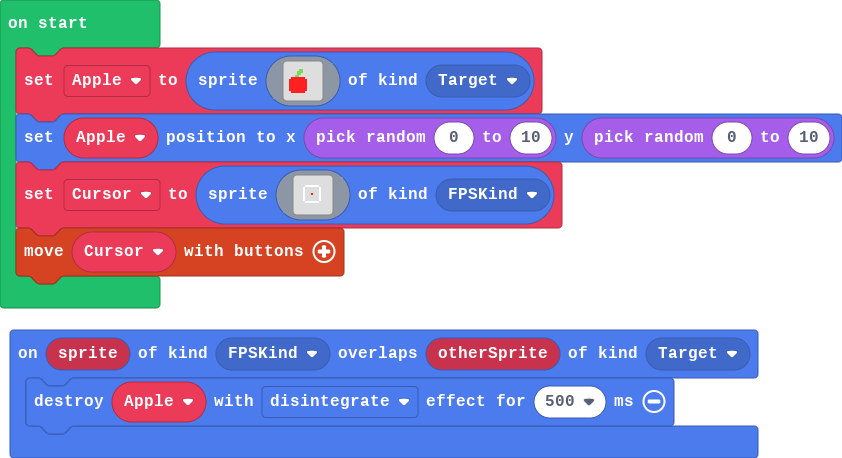
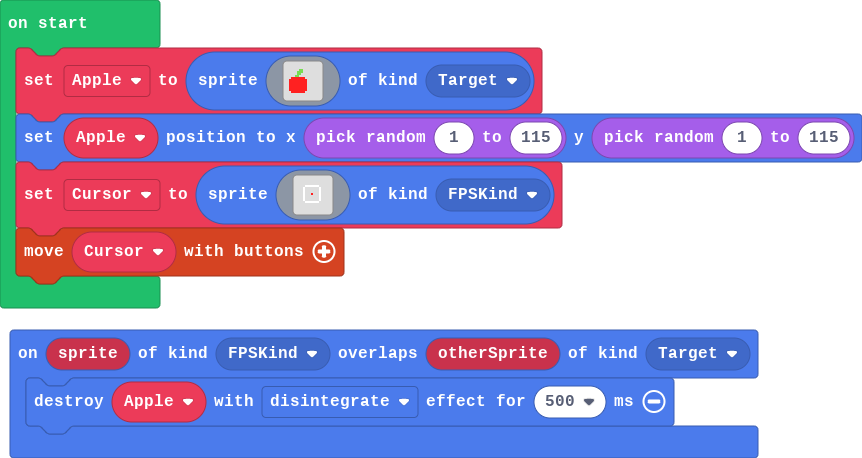
Update main.blocks, main.ts

diff --git a/main.ts b/main.ts
@@ -24,7 +24,7 @@ Apple = sprites.create(img`
     . . . . . . . . . . . . . . . . 
     . . . . . . . . . . . . . . . . 
     `, SpriteKind.Target)
-Apple.setPosition(randint(0, 10), randint(0, 10))
+Apple.setPosition(randint(1, 115), randint(1, 115))
 let Cursor = sprites.create(img`
     . . . . . . . . . . . . . . . . 
     . . . . . . . . . . . . . . . . 
